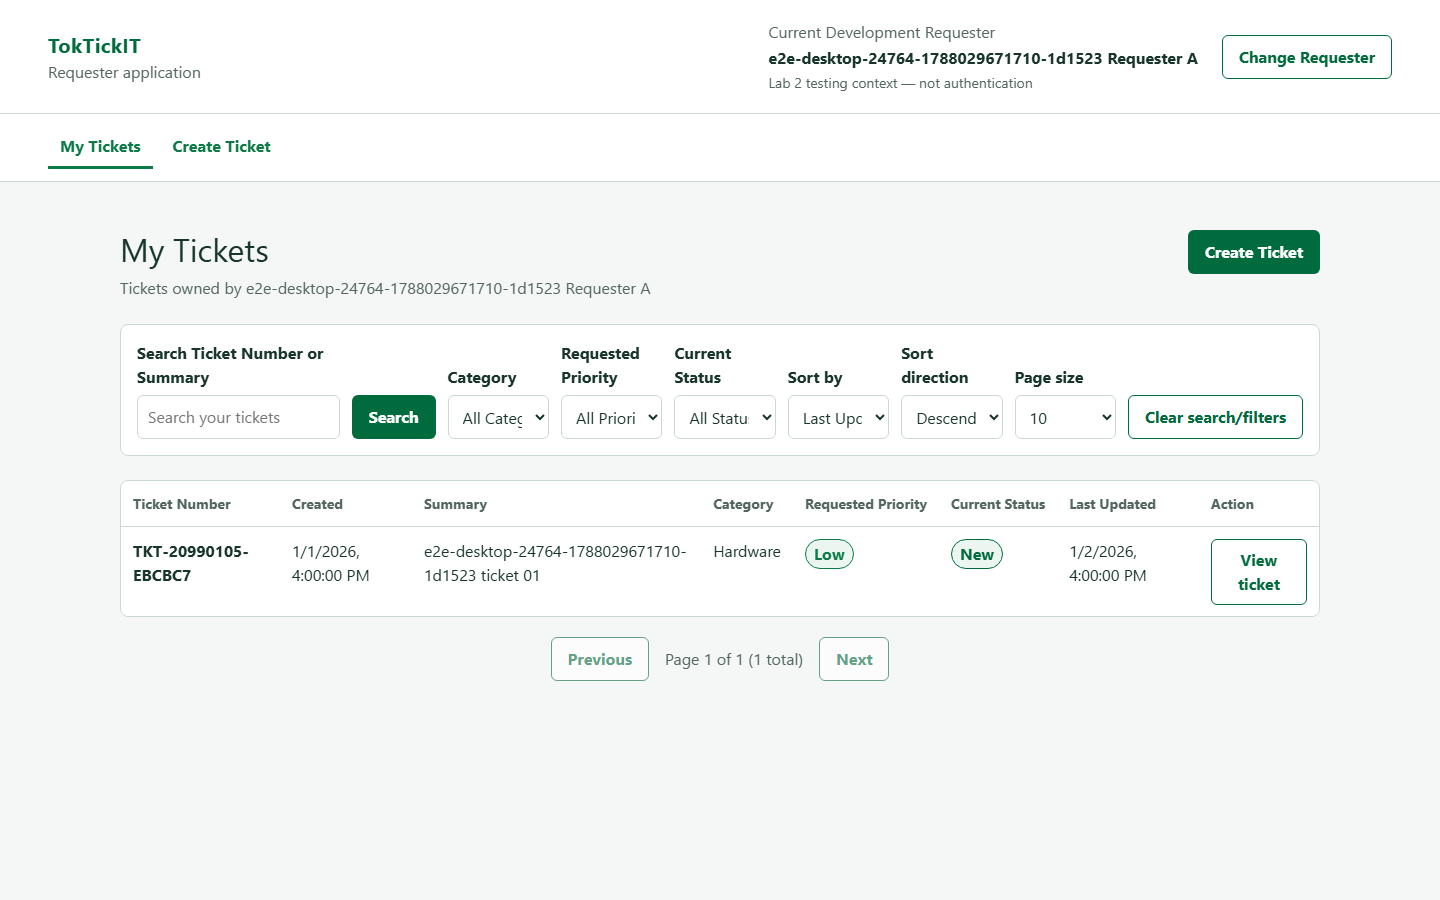
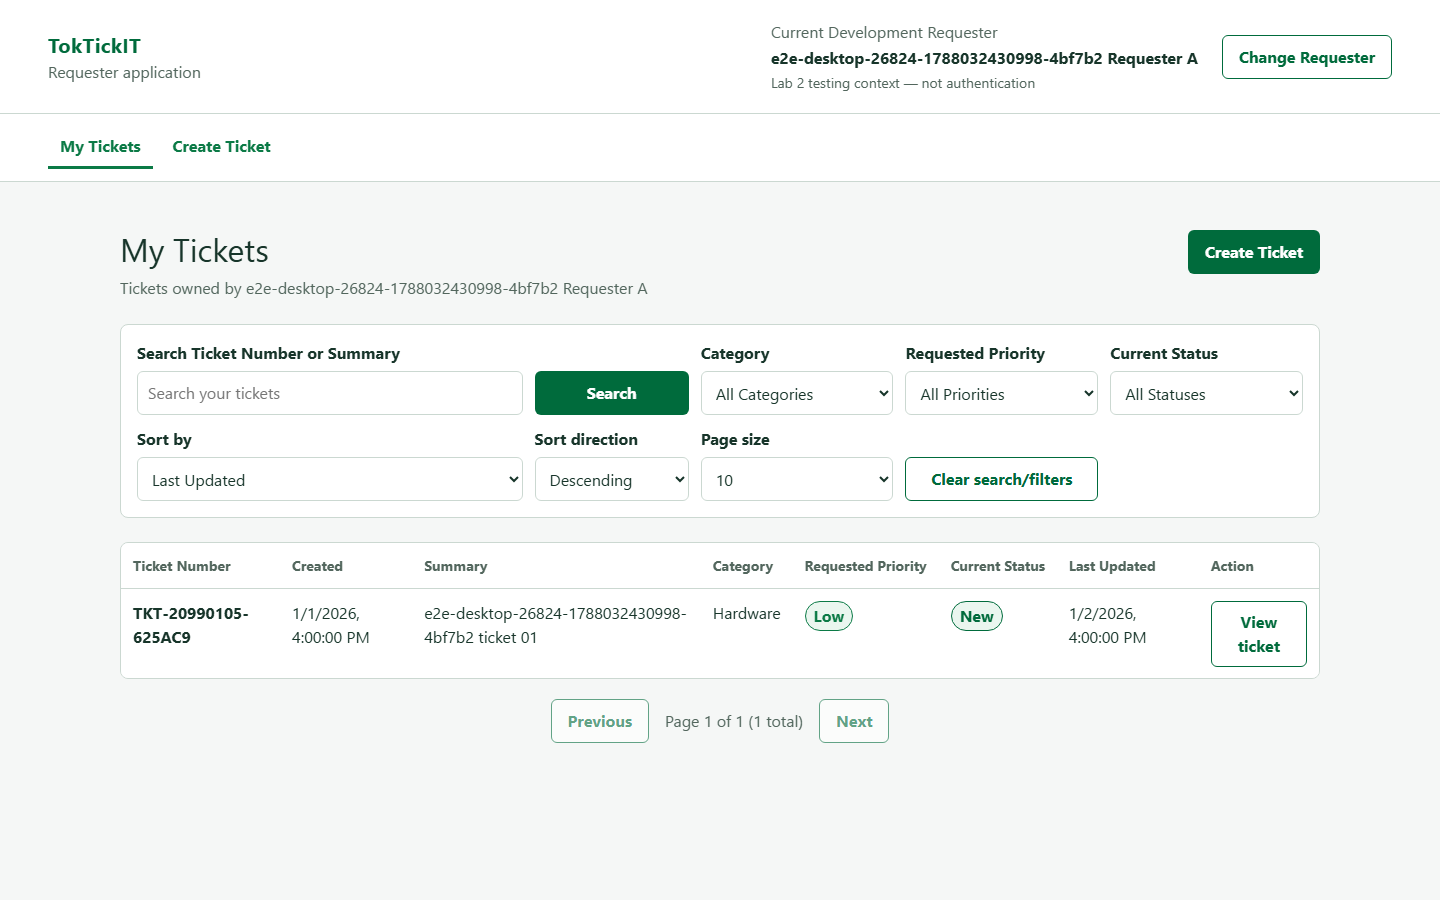
fix: address PR 29 responsive review feedback

diff --git a/e2e/lab-02/support/ui.ts b/e2e/lab-02/support/ui.ts
@@ -53,6 +53,33 @@ export async function assertTouchTargets(page: Page, selectors: string[], minimu
   if (failures.length > 0) throw new Error(`Touch target failures: ${failures.join("; ")}`);
 }
 
+export async function assertSelectedOptionTextFits(page: Page, selectors: string[], extraArrowSpace = 32): Promise<void> {
+  const failures = await page.evaluate(({ selectors: requested, extraArrowSpace: arrowSpace }) => requested.flatMap((selector) => {
+    const elements = Array.from(document.querySelectorAll<HTMLSelectElement>(selector));
+    return elements.flatMap((element) => {
+      const style = getComputedStyle(element);
+      if (style.display === "none" || style.visibility === "hidden") return [];
+      const selectedText = element.selectedOptions[0]?.textContent?.trim() ?? "";
+      if (!selectedText) return [];
+
+      const canvas = document.createElement("canvas");
+      const context = canvas.getContext("2d");
+      if (!context) return [`${selector}: unable to measure selected option text`];
+
+      context.font = style.font;
+      const textWidth = context.measureText(selectedText).width;
+      const paddingLeft = Number.parseFloat(style.paddingLeft) || 0;
+      const paddingRight = Number.parseFloat(style.paddingRight) || 0;
+      const requiredWidth = Math.ceil(textWidth + paddingLeft + paddingRight + arrowSpace);
+      const actualWidth = Math.floor(element.getBoundingClientRect().width);
+      return actualWidth + 1 < requiredWidth
+        ? [`${selector}: selected option "${selectedText}" requires about ${requiredWidth}px but control is ${actualWidth}px wide`]
+        : [];
+    });
+  }), { selectors, extraArrowSpace });
+  if (failures.length > 0) throw new Error(`Select value readability failures: ${failures.join("; ")}`);
+}
+
 export async function screenshot(page: Page, relativePath: string): Promise<void> {
   const absolutePath = resolve(process.cwd(), relativePath);
   mkdirSync(dirname(absolutePath), { recursive: true });

diff --git a/e2e/lab-02/responsive-mobile.spec.ts b/e2e/lab-02/responsive-mobile.spec.ts
@@ -1,6 +1,6 @@
 import { test, expect } from "@playwright/test";
 import { createE2eFixture, createFixtureAttachment, destroyE2eFixture, type E2eFixture } from "./support/fixtures.js";
-import { assertNoHorizontalOverflow, assertTouchTargets, assertVisibleWithinViewport, openRequesterShell, screenshot } from "./support/ui.js";
+import { assertNoHorizontalOverflow, assertSelectedOptionTextFits, assertTouchTargets, assertVisibleWithinViewport, openRequesterShell, screenshot } from "./support/ui.js";
 
 test.use({ viewport: { width: 390, height: 844 } });
 
@@ -29,6 +29,7 @@ test.describe("RESP-03 mobile 390x844", () => {
     await expect(page.getByRole("heading", { name: "No matching tickets" })).toBeVisible();
     await assertNoHorizontalOverflow(page);
     await assertVisibleWithinViewport(page, ["#my-tickets-heading", ".lab2-ticket-controls", ".lab2-ticket-cards", ".lab2-pagination button"]);
+    await assertSelectedOptionTextFits(page, [".lab2-ticket-controls select"]);
     await assertTouchTargets(page, [".lab2-ticket-controls button", ".lab2-ticket-controls input", ".lab2-ticket-controls select", ".lab2-ticket-card button"]);
     await screenshot(page, "artifacts/lab-02/screenshots/my-tickets/my-tickets-no-results-mobile.png");
   });

diff --git a/e2e/lab-02/responsive-desktop.spec.ts b/e2e/lab-02/responsive-desktop.spec.ts
@@ -1,6 +1,6 @@
 import { test, expect } from "@playwright/test";
 import { createE2eFixture, destroyE2eFixture, type E2eFixture } from "./support/fixtures.js";
-import { assertNoHorizontalOverflow, assertVisibleWithinViewport, openRequesterShell, screenshot } from "./support/ui.js";
+import { assertNoHorizontalOverflow, assertSelectedOptionTextFits, assertVisibleWithinViewport, openRequesterShell, screenshot } from "./support/ui.js";
 
 test.use({ viewport: { width: 1440, height: 900 } });
 
@@ -34,6 +34,7 @@ test.describe("RESP-01 desktop 1440x900", () => {
     await expect(page.locator(".lab2-table-wrap").getByText(fixture.tickets[0].summary)).toBeVisible();
     await assertNoHorizontalOverflow(page);
     await assertVisibleWithinViewport(page, ["#my-tickets-heading", ".lab2-ticket-controls", ".lab2-table-wrap", ".lab2-pagination button"]);
+    await assertSelectedOptionTextFits(page, [".lab2-ticket-controls select"]);
     await screenshot(page, "artifacts/lab-02/screenshots/my-tickets/my-tickets-desktop.png");
 
     await page.getByRole("button", { name: "Change Requester" }).click();

diff --git a/e2e/lab-02/responsive-tablet.spec.ts b/e2e/lab-02/responsive-tablet.spec.ts
@@ -1,6 +1,6 @@
 import { test, expect } from "@playwright/test";
 import { createE2eFixture, destroyE2eFixture, type E2eFixture } from "./support/fixtures.js";
-import { assertNoHorizontalOverflow, assertVisibleWithinViewport, fillCreateTicket, openRequesterShell, screenshot } from "./support/ui.js";
+import { assertNoHorizontalOverflow, assertSelectedOptionTextFits, assertVisibleWithinViewport, fillCreateTicket, openRequesterShell, screenshot } from "./support/ui.js";
 
 test.use({ viewport: { width: 834, height: 1112 } });
 
@@ -16,6 +16,7 @@ test.describe("RESP-02 tablet 834x1112", () => {
     await expect(page.getByLabel("Search Ticket Number or Summary")).toBeVisible();
     await assertNoHorizontalOverflow(page);
     await assertVisibleWithinViewport(page, ["#my-tickets-heading", ".lab2-ticket-controls", ".lab2-table-wrap", ".lab2-pagination button"]);
+    await assertSelectedOptionTextFits(page, [".lab2-ticket-controls select"]);
   });
 
   test("captures a real partial-success Create Ticket state", async ({ page }) => {

diff --git a/client/src/styles.css b/client/src/styles.css
@@ -422,7 +422,7 @@ select:focus-visible {
 
 .lab2-ticket-controls {
   display: grid;
-  grid-template-columns: minmax(180px, 2fr) auto repeat(6, minmax(0, 1fr)) auto;
+  grid-template-columns: minmax(220px, 2fr) minmax(130px, .8fr) repeat(3, minmax(150px, 1fr));
   align-items: end;
   gap: 12px;
   margin-bottom: 24px;

diff --git a/docs/lab-02/reviewer.md b/docs/lab-02/reviewer.md
@@ -57,6 +57,25 @@ This file records only peer-review evidence that actually occurred. Approval is 
 | Review 3 | UI-03 / AC-37 matrix mismatch | Added UI-03 to AC-37 mapping | `tests.md` | Resolved |
 | Review 3 | Branch number differs from Issue #15 | No rename performed yet | Git process | Open |
 
+## Issue #28 / PR #29 review evidence
+
+### Review 4 — 2026-08-29 19:33 UTC
+
+- Result: **Changes requested**
+- Reviewer: `@Chxtamos`
+- Review: [PR #29 review](https://github.com/Tanaboonnnnn/toktickit/pull/29#pullrequestreview-5058988936)
+- Finding 1: the Desktop My Tickets evidence screenshot showed selected toolbar values clipped inside narrow select controls even though the Test DD/UI evidence claimed no clipped labels or controls.
+- Finding 2: the responsive automation only proved viewport containment/page overflow and did not verify that the selected option text itself fit inside each visible toolbar select.
+- Finding 3: the PR description did not explicitly link/close Issue #28.
+- Response: added a browser-level selected-option readability assertion, reproduced the defect as a failing RESP-01 check, changed the Desktop toolbar grid to preserve readable control widths, regenerated `my-tickets-desktop.png`, reran the full responsive suite (`10/10` passed), and added `Closes #28` to the PR description.
+- Status: implementation/evidence fixes completed; reviewer re-review/approval remains pending.
+
+| Review | Finding | Student response | File/change | Status |
+|---|---|---|---|---|
+| Review 4 | Desktop My Tickets selected values were clipped | Reflowed the desktop filter toolbar so select values have sufficient readable width | `client/src/styles.css`, regenerated `artifacts/lab-02/screenshots/my-tickets/my-tickets-desktop.png` | Resolved pending re-review |
+| Review 4 | Responsive checks could miss select text clipping | Added browser measurement of selected option text against actual rendered control width at Desktop/Tablet/Mobile | `e2e/lab-02/support/ui.ts`, `responsive-*.spec.ts` | Resolved pending re-review |
+| Review 4 | PR lacked explicit Issue #28 traceability | Added `Closes #28` to PR description | PR #29 metadata | Resolved pending re-review |
+
 ## Approval evidence
 
 - Final reviewer verdict: **Changes requested**

diff --git a/docs/lab-02/tests.md b/docs/lab-02/tests.md
@@ -360,3 +360,16 @@ Fresh final verification after the E2E harness, test-integrity, responsive, and 
 - `git diff --check`: passed after final documentation/hygiene updates (line-ending warnings, if shown, are not whitespace errors).
 
 Issue 8 also corrected two verification-tooling defects found by fresh execution: the managed Vite process lifecycle on Windows and the Windows-incompatible wildcard in `test:responsive`. The final supported root scripts use the single managed process lifecycle and explicit responsive spec paths.
+
+### PR #29 review-fix verification
+
+Peer review identified that the original Desktop My Tickets screenshot could clip selected toolbar values even though page-level overflow checks passed. A new browser-level readability assertion now measures the selected option text against each rendered select width, including native-select arrow allowance.
+
+- Pre-fix RESP-01 reproduction failed as expected: `All Categories`, `All Priorities`, `All Statuses`, `Last Updated`, and `Descending` required approximately `133–150px` while the controls were only `101px` wide.
+- The Desktop toolbar grid was changed to reflow the controls into readable rows rather than compressing all controls into one line.
+- Focused RESP-01 My Tickets verification passed after the fix.
+- Full responsive suite: `10` browser tests passed across Desktop `1440×900`, Tablet `834×1112`, and Mobile `390×844`.
+- Full client suite after the review fix: `17` test files / `120` tests passed.
+- Client production build passed (`tsc && vite build`).
+- `my-tickets-desktop.png` was regenerated from the passing Desktop responsive run and manually re-inspected; all selected toolbar values are fully readable.
+- `git diff --check` passed after the review fix.

diff --git a/docs/lab-02/ui-spec.md b/docs/lab-02/ui-spec.md
@@ -579,6 +579,7 @@ Visual review confirms:
 - [x] Active, Uploading, Invalid, Removed, and Unavailable Attachment states are visually distinct.
 - [x] No clipped labels, overlapping messages, hidden required buttons, unreadable filenames, or unintended horizontal overflow exist.
 - [x] Filters, pagination, Attachment controls, and empty states remain usable at desktop, tablet, and mobile widths.
+- [x] My Tickets select controls keep their selected values readable without text clipping at the required Desktop, Tablet, and Mobile evidence widths.
 - [x] No excluded authentication, IT Staff, Public Comment, Internal Note, Actions Taken, assignment, IT Priority edit, or later status-workflow UI appears.
 
 Required implementation evidence is stored under the course repository artifact structure:
